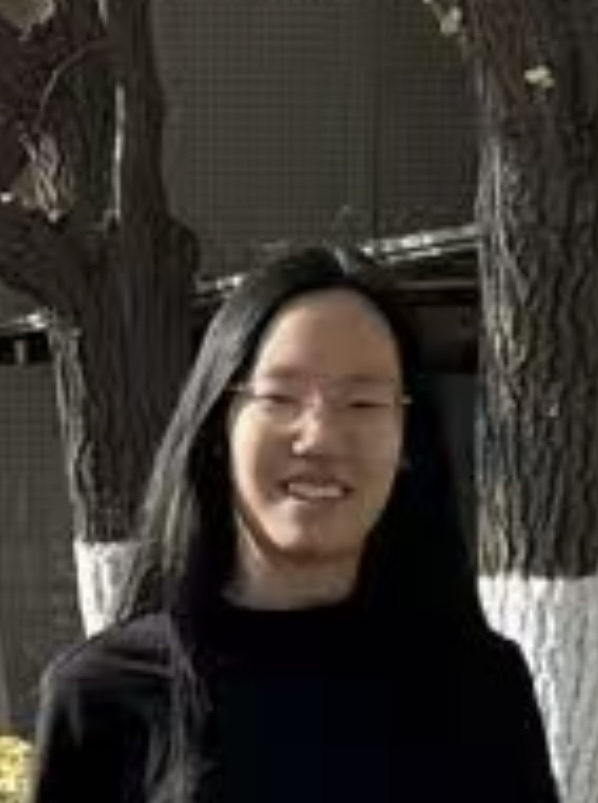
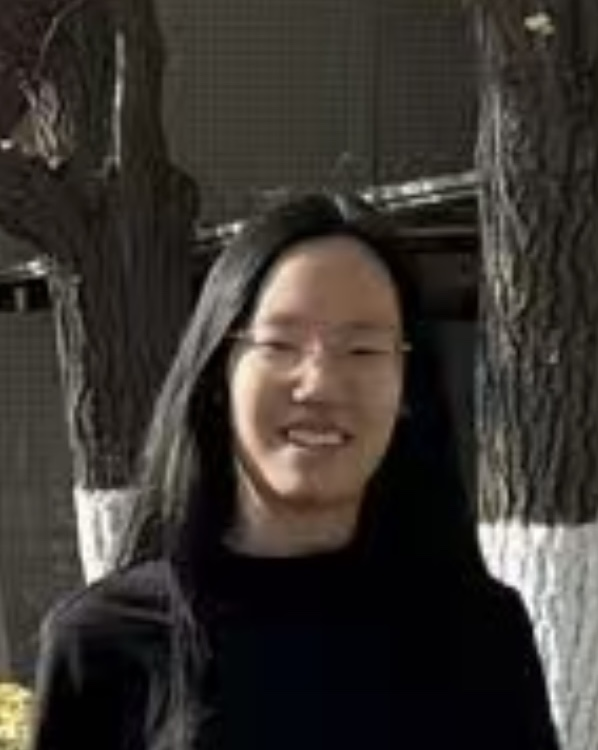
update all members

diff --git a/members.html b/members.html
@@ -97,6 +97,40 @@
             </div><!-- end title -->
 
             <hr />
+            <h3 id="instructors">Instructors</h3>
+
+            <div class="row">
+                <div class="col-sm-6 clearfix">
+                    <img src="images/teampic/liliu.jpg" alt="" class="img-fluid img-rounded member_pic" style="width: 25%; float: left; margin-right: 20px; margin-bottom: 20px; border-radius: 20px;">
+                    <h4>Li Liu</h4>
+                    <p><i>Ph.D. and Professor, Mechanical Engineering, Tsinghua University</i></p>
+                    <ul>
+                        <a href="https://me.tsinghua.edu.cn/en/info/1080/1195.htm">Personal Homepage</a>
+                    </ul>
+                </div>
+
+                <div class="col-sm-6 clearfix">
+                    <img src="images/teampic/ruichen.jpg" alt="" class="img-fluid img-rounded member_pic" style="width: 25%; float: left; margin-right: 20px; margin-bottom: 20px; border-radius: 20px;">
+                    <h4>Rui Chen</h4>
+                    <p><i>Research Assistant Professor, Mechanical Engineering, Tsinghua University</i></p>
+                    <ul>
+                        <a href="https://callmeray.github.io/homepage/">Personal Homepage</a>
+                    </ul>
+                </div>
+            </div><!-- end row -->
+
+            <div class="row">
+                <div class="col-sm-6 clearfix">
+                    <img src="images/teampic/qiwenli.jpg" alt="" class="img-fluid img-rounded member_pic" style="width: 25%; float: left; margin-right: 20px; margin-bottom: 20px; border-radius: 20px;">
+                    <h4>Qiwen Li</h4>
+                    <p><i>Executive of Digital Design and Manufacturing Experimental Teaching, Mechanical Engineering, Tsinghua University</i></p>
+                    <ul>
+                        <a href="https://me.tsinghua.edu.cn/info/1023/1512.htm">Personal Homepage</a>
+                    </ul>
+                </div>
+            </div><!-- end row -->
+
+            <hr />
             <h3 id="students">Students</h3>
 
             <div class="row">
@@ -187,22 +221,6 @@
                 </div>
             </div><!-- end row -->
 
-            <hr />
-            <h3 id="teachers">Teachers</h3>
-
-            <div class="row">
-                <div class="col-sm-6 clearfix">
-                    <img src="images/teampic/ruichen.jpg" alt="" class="img-fluid img-rounded member_pic" style="width: 25%; float: left; margin-right: 20px; margin-bottom: 20px; border-radius: 20px;">
-                    <h4>Rui Chen</h4>
-                    <p><i>, , Tsinghua University</i></p>
-                    <ul><li>Research Interests: Robotics, Control, and Machine Learning</li></ul>
-                </div>
-
-                <div class="col-sm-6 clearfix">
-                </div>
-            </div><!-- end row -->
-
-
         </div><!-- end container -->
     </div><!-- end section -->
 
@@ -211,7 +229,7 @@
             <div class="footer-distributed">
                 <div class="footer-left">
                     <p class="footer-company-name">
-                        <font color=#929292>All Rights Reserved. &copy; 2021 Tinker Robot Team</font>
+                        <font color=#929292>All Rights Reserved. &copy; 2024 Tinker Robot Team</font>
                     </p>
                 </div>
             </div>
@@ -264,7 +282,7 @@
     let elements = document.getElementsByClassName('col-sm-6');
 
     for (let i = 0; i < students.length; i++) {
-        const div = elements[i];
+        const div = elements[i+3];
         const img = document.createElement('img');
         img.src = `images/teampic/${students[i].img}`;
         img.className = "img-fluid img-rounded member_pic";

diff --git a/index.html b/index.html
@@ -131,7 +131,7 @@
                 </div>
             </div>
             
-            <div class="ct-header tablex item" data-background="images/compressed/Tinker-Daily-1.jpg">
+            <div class="ct-header tablex item" data-background="images/compressed/Tinker-Daily-7.png">
                 <div class="ct-u-display-tablex">
                     <div class="inner">
                         <div class="container">
@@ -203,6 +203,34 @@
                         </figcaption>
                         <i class="ion-ios-home-outline"></i>
                         <a href="https://2024.robocup.org" target="_blank"></a>
+                    </figure>
+                </div>
+                <div class="col-md-4 col-sm-6 col-lg-4">
+                    <figure class="snip1401">
+                        <img src="images/compressed/Tinker@Robocup_ap2024.jpg" alt="" />
+                        <figcaption>
+                            <h3>RoboCup@home Asia Pacific 2024</h3>
+                            <p>20-23 June 2024</p>
+                            <p>Tianjin | China</p>
+                            <br>
+                            <p>Rank 3</p>
+                        </figcaption>
+                        <i class="ion-ios-home-outline"></i>
+                        <a href="https://robocupap.org" target="_blank"></a>
+                    </figure>
+                </div>
+                <div class="col-md-4 col-sm-6 col-lg-4">
+                    <figure class="snip1401">
+                        <img src="images/compressed/Tinker@Robocup_china2024.jpg" alt="" />
+                        <figcaption>
+                            <h3>RoboCup@home China 2024</h3>
+                            <p>17-19 May 2024</p>
+                            <p>Quanzhou | China</p>
+                            <br>
+                            <p>The Third Prize</p>
+                        </figcaption>
+                        <i class="ion-ios-home-outline"></i>
+                        <a href="http://crc.drct-caa.org.cn" target="_blank"></a>
                     </figure>
                 </div>
                 <div class="col-md-4 col-sm-6 col-lg-4">
@@ -299,7 +327,7 @@
         <div class="container">
             <div class="footer-distributed">
                 <div class="footer-left">
-                    <p class="footer-company-name"><font color=#929292>All Rights Reserved. &copy; 2021 Tinker Robot Team</font></p>
+                    <p class="footer-company-name"><font color=#929292>All Rights Reserved. &copy; 2024 Tinker Robot Team</font></p>
                 </div>
             </div>
         </div><!-- end container -->

diff --git a/members.js b/members.js
@@ -1,9 +1,9 @@
 let students = [
     { name: "Jiayu Wang(Team Leader)", grade: "B.S. Student", major: "Software Engineering", group: "Vision and Decision", img: "jiayuwang.jpg" },
-    { name: "Songquan Lin(President)", grade: "B.S. Student", major: "Electronic Engineering and Technology", group: "Hardware and Decision", img: "songquanlin.jpg" },
-    { name: "Yunfei Li", grade: " Student", major: "", group: "Vision and Decision", img: "yunfeili.jpg" },
-    { name: "Bingchuan Wei", grade: "", major: "", group: "Navigation", img: "bingchuanwei.jpg" },
-    { name: "Xinyao Qin", grade: "", major: "", group: "Grasping", img: "xinyaoqin.jpg" },
+    { name: "Songchuan Lim(President)", grade: "B.S. Student", major: "Electronic Engineering and Technology", group: "Hardware and Decision", img: "songchuanlim.jpg" },
+    { name: "Yunfei Li", grade: "Master Student", major: "Software Engineering", group: "Vision", img: "yunfeili.png" },
+    { name: "Bingchuan Wei", grade: "Ph.D. Student", major: "Aerospace Engineering", group: "Navigation", img: "bingchuanwei.jpg" },
+    { name: "Xinyao Qin", grade: "Ph.D. Student", major: "Automation", group: "Grasping", img: "xinyaoqin.jpg" },
     { name: "Zhiting Zhou", grade: "B.S. Student", major: "Electronic Engineering and Technology", group: "Vision, Grasping and Simulation", img: "zhitingzhou.jpg" },
     { name: "Langzhe Gu", grade: "B.S. Student", major: "Electronic Engineering and Technology", group: "Navigation", img: "langzhegu.jpg" },
     { name: "Wang You", grade: "B.S. Student", major: "Computer Science and Technology", group: "Vision", img: "wangyou.jpg" },

diff --git a/documents.html b/documents.html
@@ -165,7 +165,7 @@
         <div class="container">
             <div class="footer-distributed">
                 <div class="footer-left">
-                    <p class="footer-company-name"><font color=#929292>All Rights Reserved. &copy; 2021 Tinker Robot Team</font></p>
+                    <p class="footer-company-name"><font color=#929292>All Rights Reserved. &copy; 2024 Tinker Robot Team</font></p>
                 </div>
             </div>
         </div><!-- end container -->

diff --git a/videos.html b/videos.html
@@ -144,7 +144,7 @@
         <div class="container">
             <div class="footer-distributed">
                 <div class="footer-left">
-                    <p class="footer-company-name"><font color=#929292>All Rights Reserved. &copy; 2021 Tinker Robot Team</font></p>
+                    <p class="footer-company-name"><font color=#929292>All Rights Reserved. &copy; 2024 Tinker Robot Team</font></p>
                 </div>
             </div>
         </div><!-- end container -->
